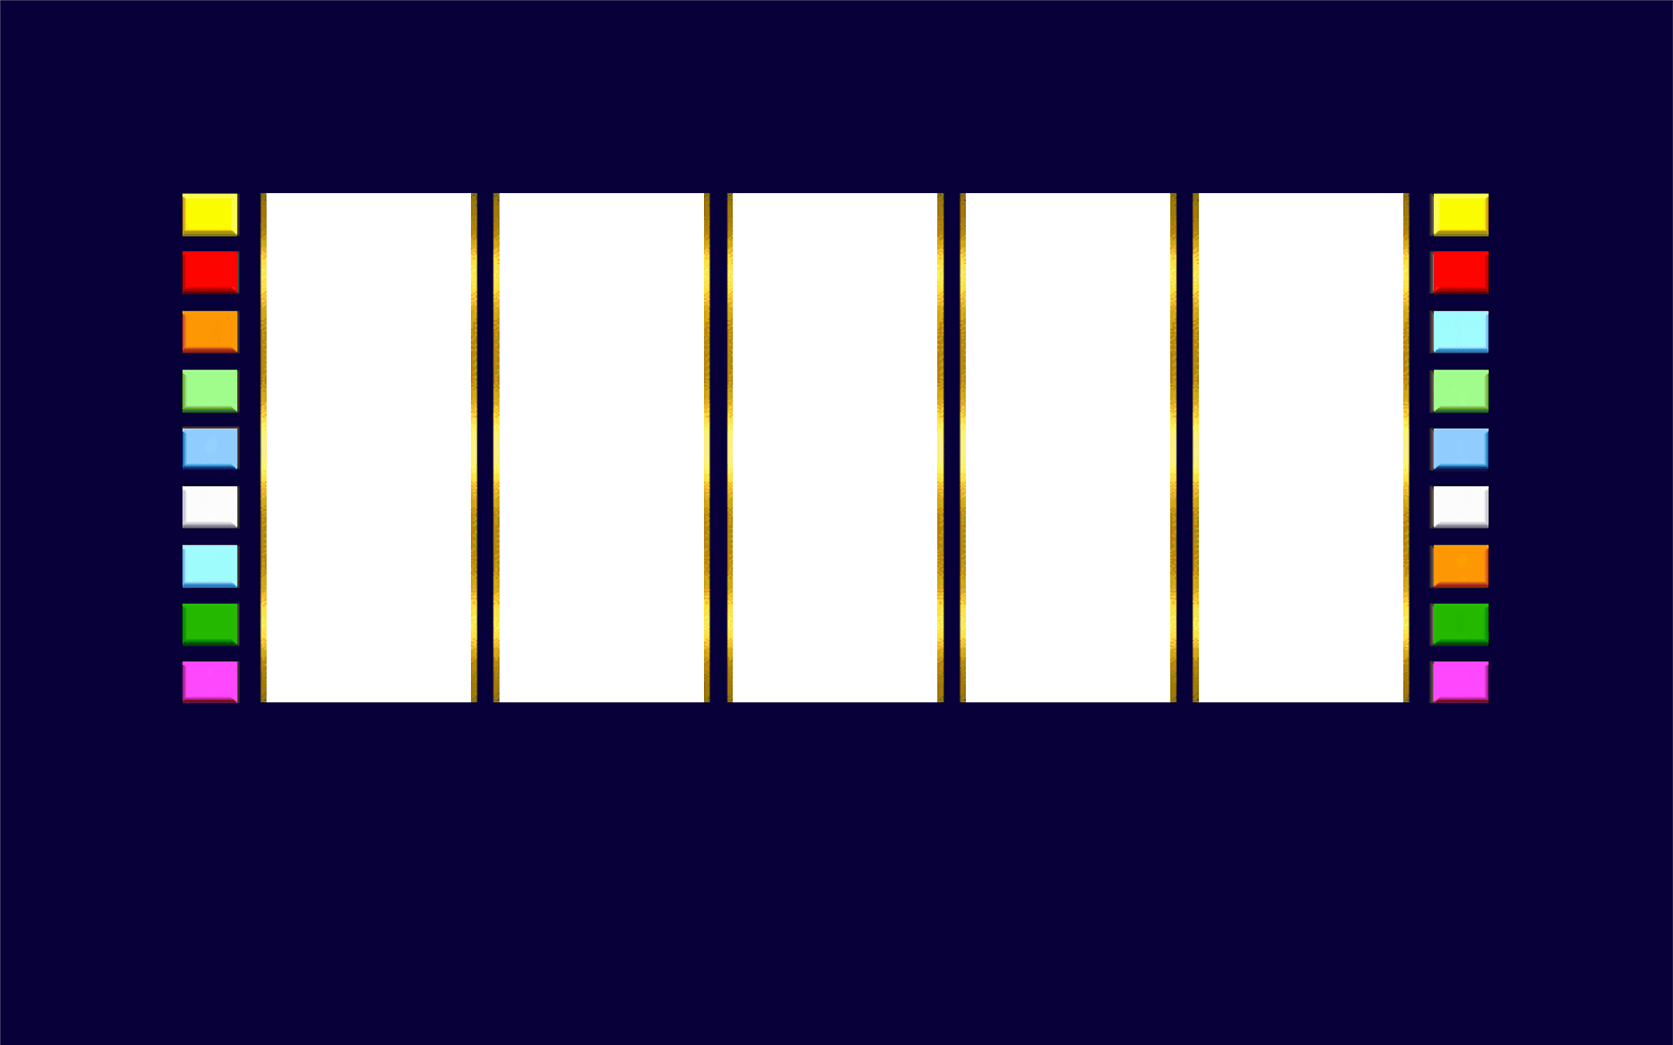
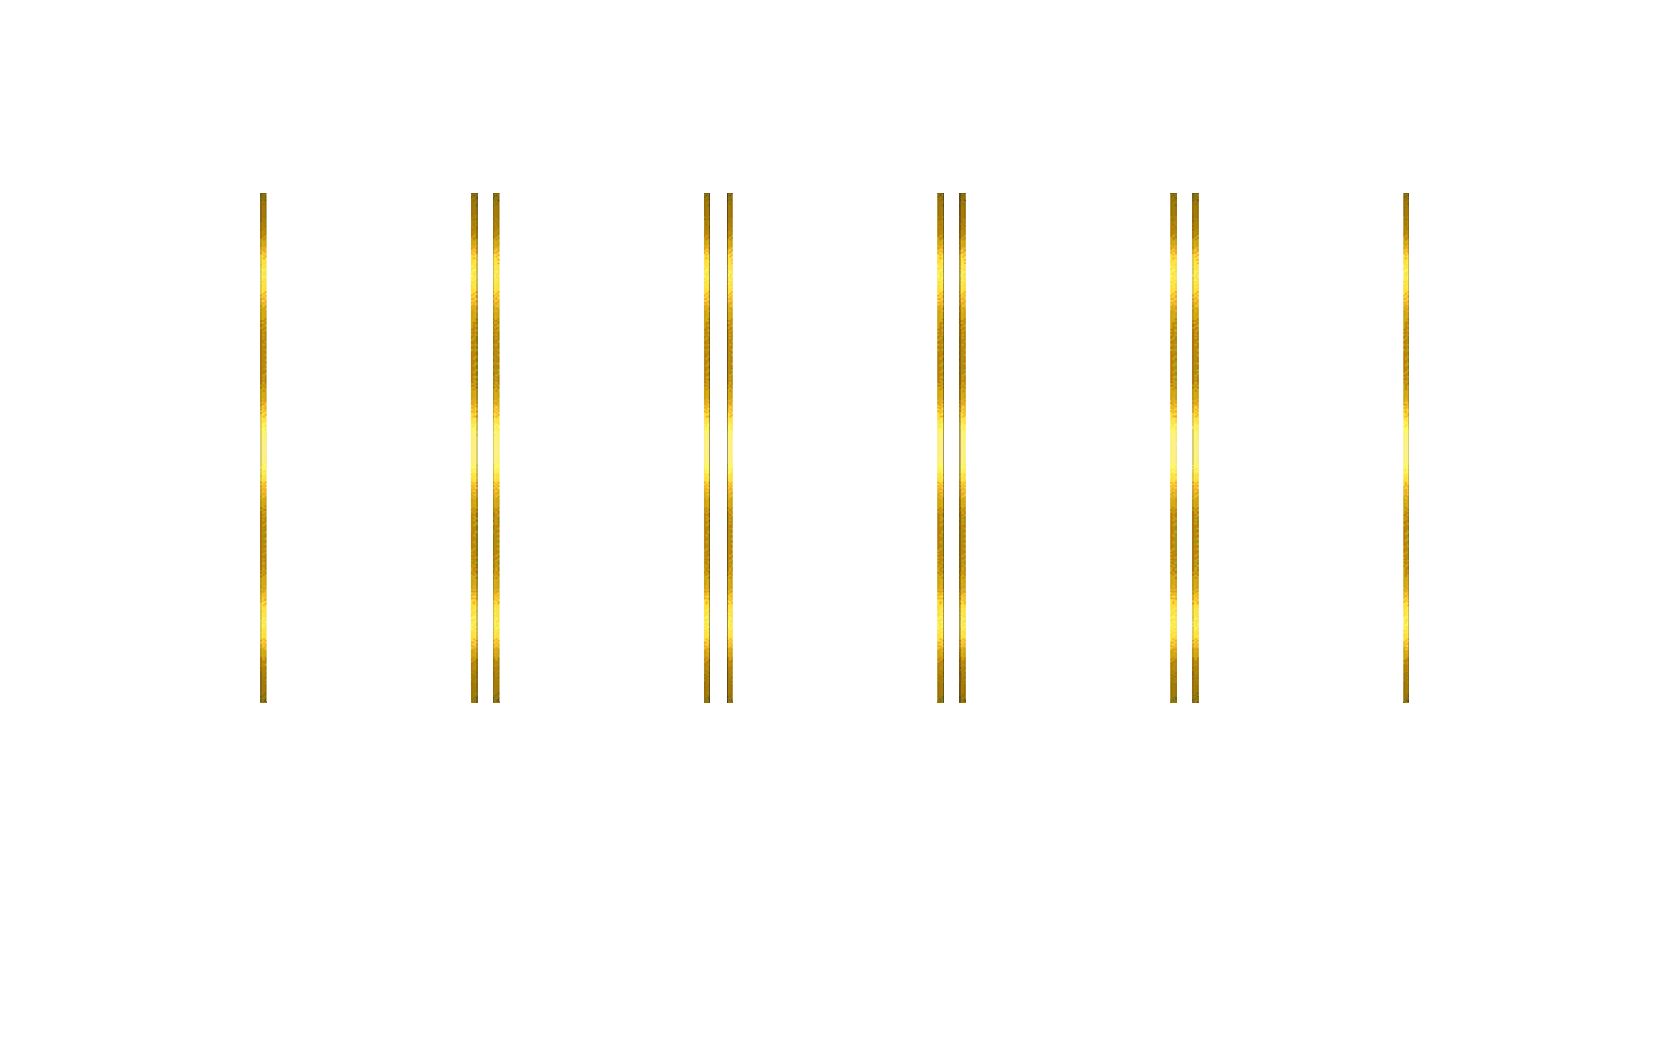
bananasgobahamas done

diff --git a/public/js/bananasgobahamas_settings.js b/public/js/bananasgobahamas_settings.js
@@ -56,5 +56,7 @@ var settings = {
         {lineIndex: 8, color: "rgb(142, 252, 252)"},
         {lineIndex: 2, color: "rgb(0, 213, 0)"},
         {lineIndex: 4, color: "#de20ff"}
-    ]
+    ],
+
+    "presentersDefaultColor": "#a8bcc8"
 }

diff --git a/resources/assets/sass/divslot/games/bananasgobahamas.scss b/resources/assets/sass/divslot/games/bananasgobahamas.scss
@@ -27,7 +27,7 @@
 
 .main {
     background: url("../img/games/bananasgobahamas/game_bg.png") center center;
-    background-color: #EFECCD;
+    background-color: #080038;
 }
 .line_presenters_container {
     height: 513px;
